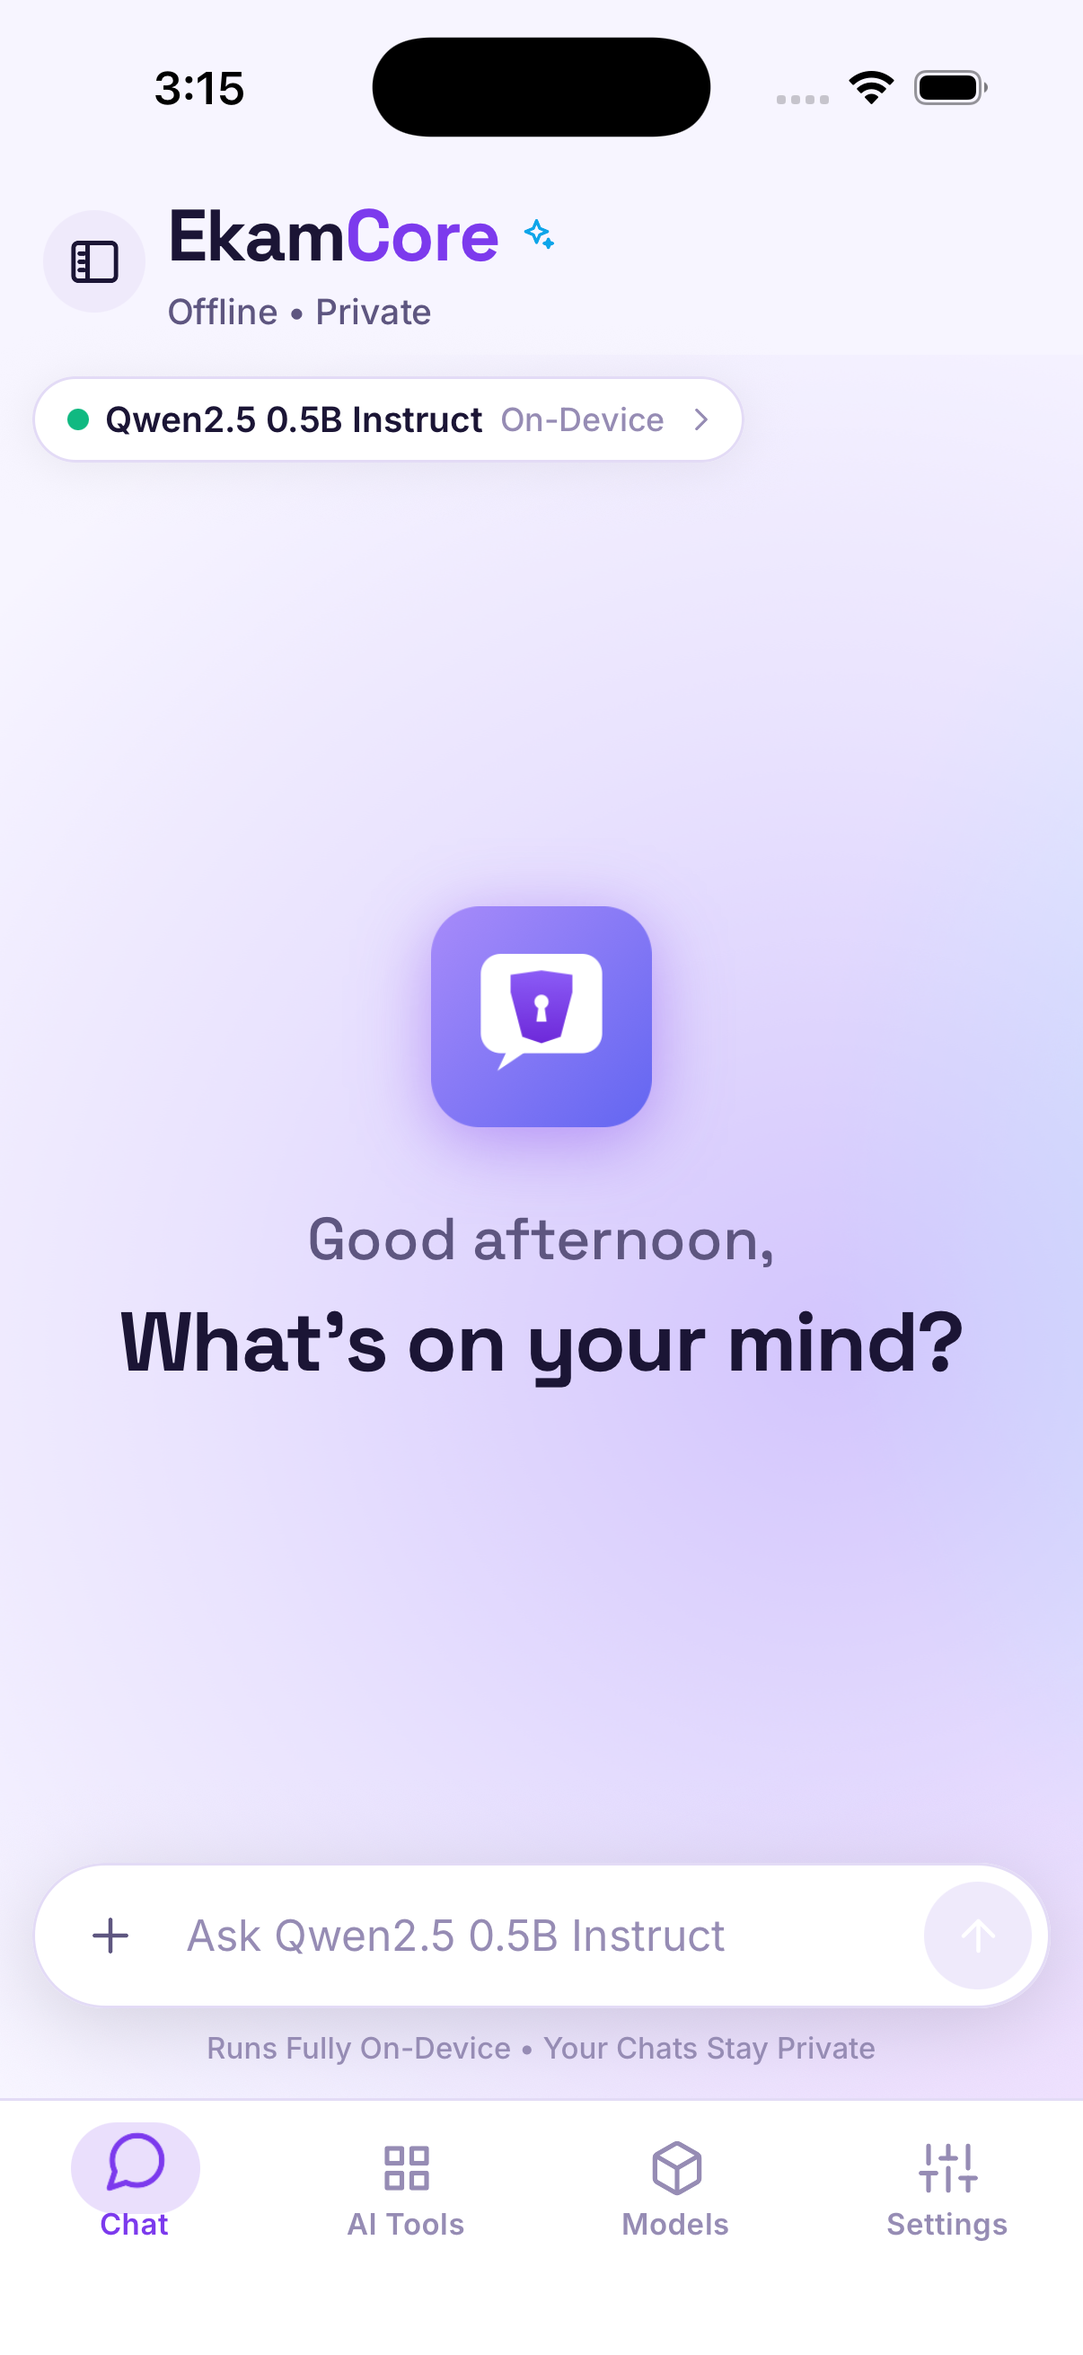
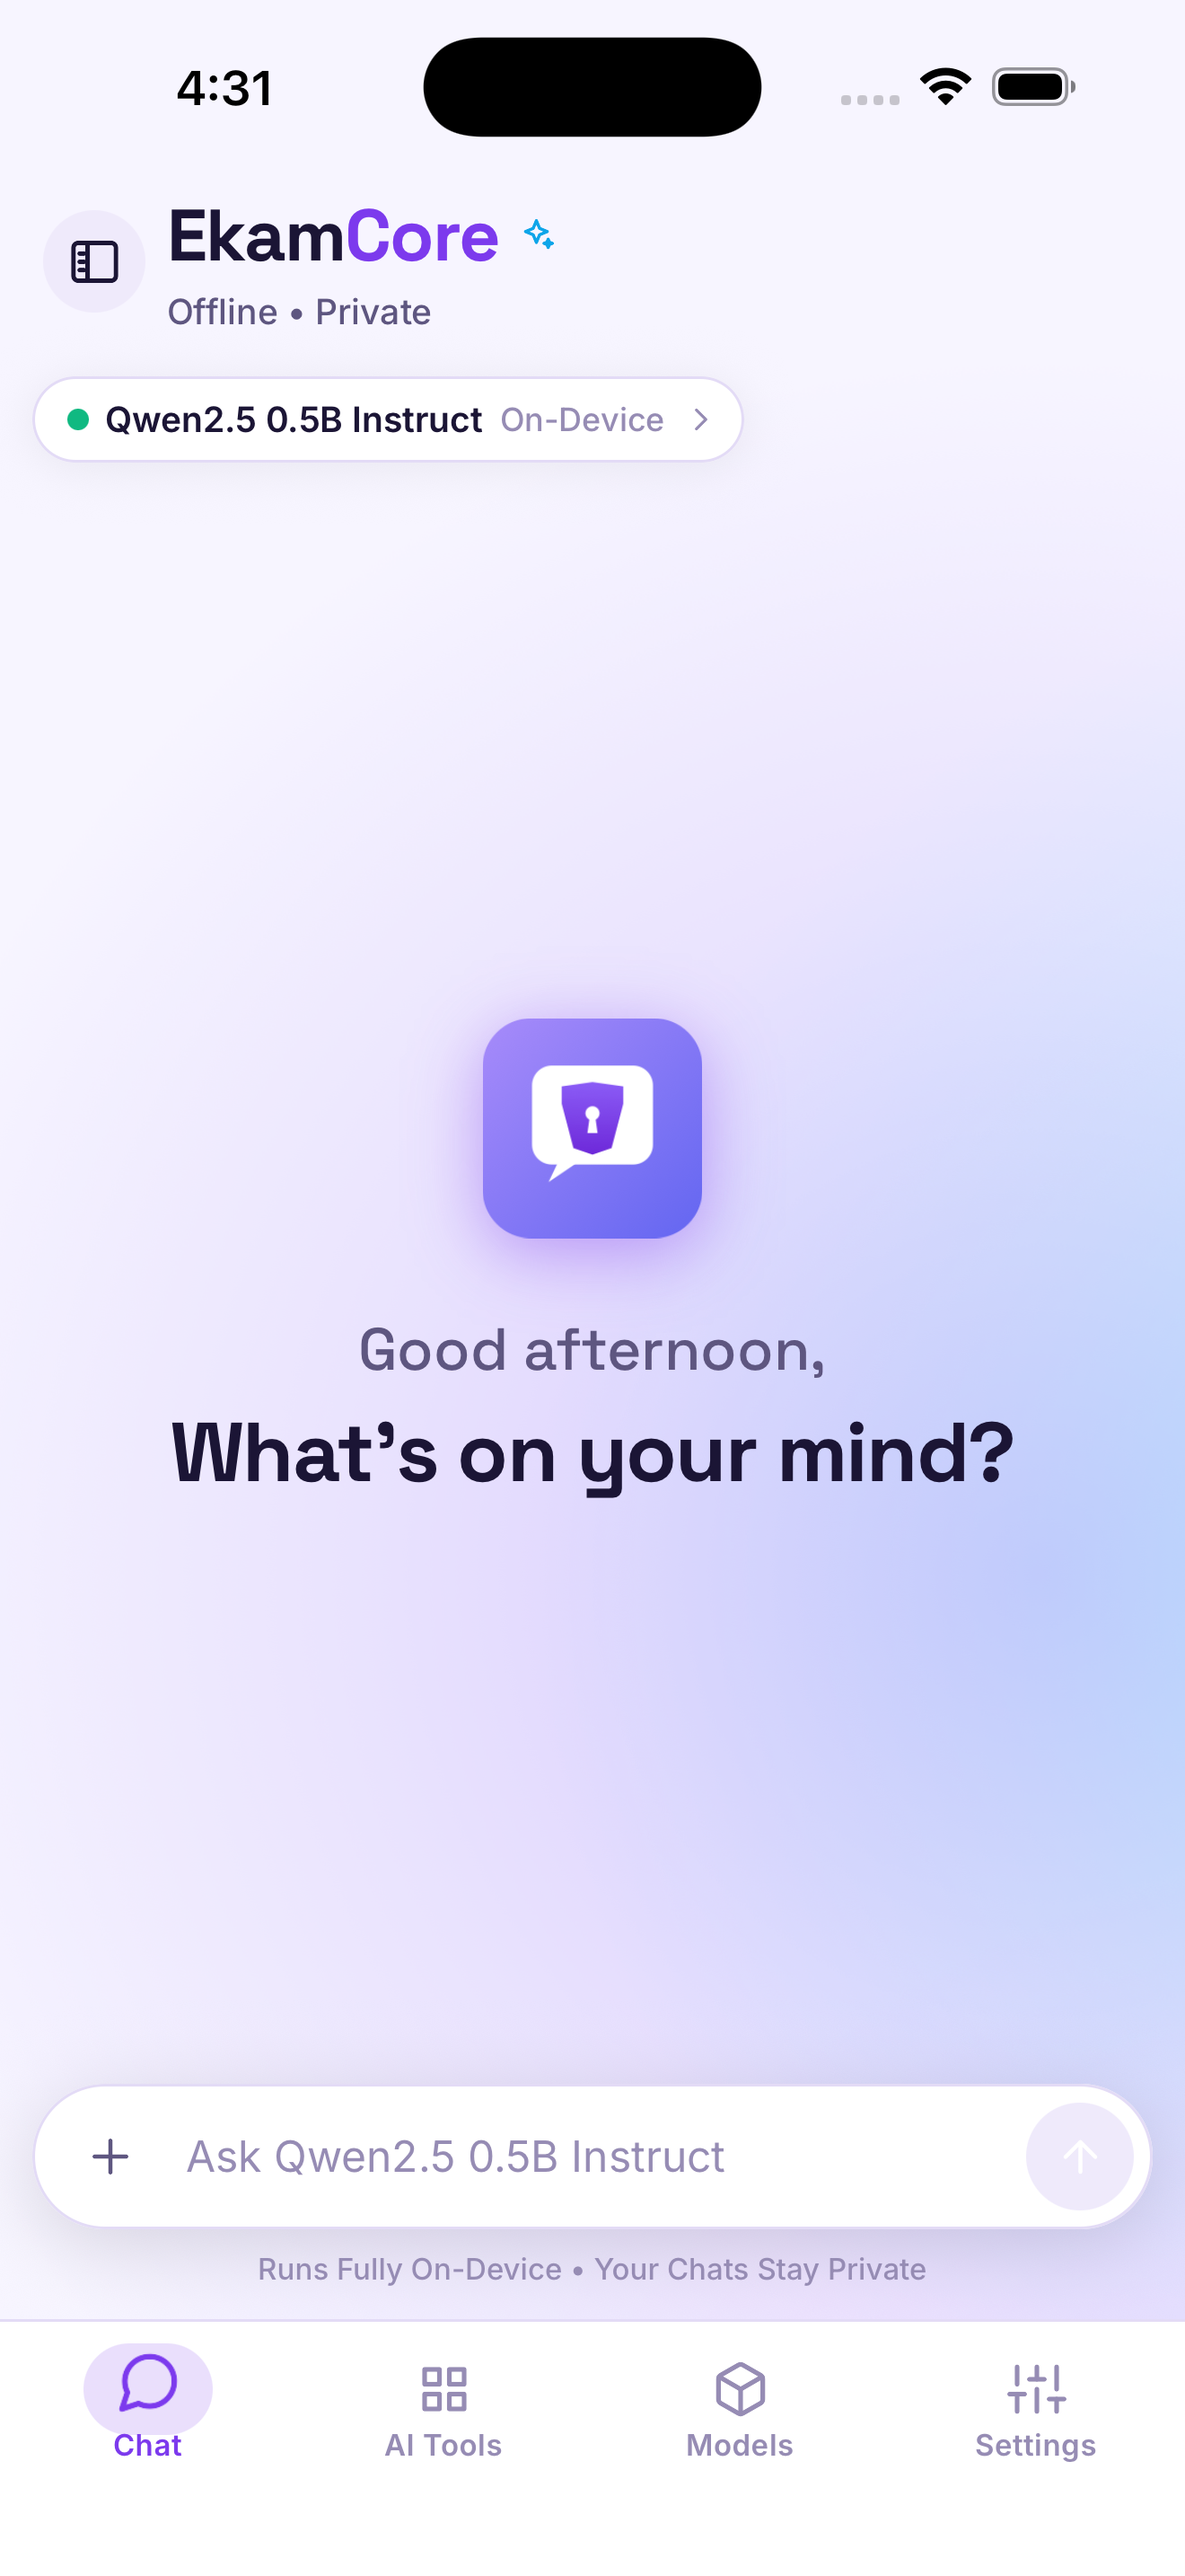
docs(store): fuller screenshot sets — iOS 6.9" (4) + Android (6)
iOS: 4 shots at the required 1320x2868 (6.9", iPhone 17 Pro Max) — hero, models,
settings, AI Tools (replaces the earlier 6.3" captures). Android: 6 shots at
1080x2400 — adds settings, AI Tools, history to hero/models/chat. Copy doc updated
with the manifest + the two optional manual captures (iOS chat/history drawer,
vision-models tab) that automation couldn't hit.

diff --git a/docs/store-assets/store-listing-copy.md b/docs/store-assets/store-listing-copy.md
@@ -82,18 +82,29 @@ Download a model, go offline, and chat. Your conversations never leave your devi
 
 ## Screenshots
 
-Raw device captures live in `docs/store-assets/screenshots/` (`ios/` at 1206×2622, `android/` at
-1080×2400). They cover the three hero screens: **the private hero state** (carries the "Runs Fully
-On-Device · Your Chats Stay Private" line), **the model catalog** (device-tailored size/speed
-estimates), and **a live chat exchange**.
+Raw device captures live in `docs/store-assets/screenshots/`:
 
-**Before upload (finish these):**
-- iOS App Store requires **6.9"** screenshots (1320×2868) — recapture on an **iPhone 17 Pro Max**
-  simulator (UI is identical; the iOS chat exchange is already seeded, just open it from the drawer).
-- Google Play wants ≥2 phone screenshots (we have 3) — the current 1080×2400 set is accepted as-is.
-- Optional polish: add short caption overlays ("Runs 100% on your phone", "No cloud. No account.",
-  "Pick a model that fits your phone") and a device frame. These raw shots are submission-ready
-  without it, but captions lift conversion.
+**iOS — `ios/` (1320×2868, the App Store 6.9" requirement):** 4 shots
+1. `01-hero` — private hero state ("Runs Fully On-Device · Your Chats Stay Private")
+2. `02-models` — model catalog with device-tailored size/speed estimates
+3. `03-settings` — privacy/personalization ("Adapt to me… stored only on this device") + "connect your own computer"
+4. `04-ai-tools` — on-device assistants (Email, Rewriter, Meeting Notes, Planner…)
+
+**Android — `android/` (1080×2400, Play-ready as-is):** 6 shots
+1. `01-hero` · 2. `02-models` · 3. `03-chat` (live Q&A exchange) · 4. `04-settings` ·
+5. `05-ai-tools` · 6. `06-history` (conversation management)
+
+This is a strong set (Play needs ≥2/max 8 → we have 6; Apple needs ≥1/max 10 → we have 4).
+
+**Optional finishes to push it to 6/platform:**
+- iOS **chat exchange** + **history** shots: the demo chat is already seeded on the Pro Max sim —
+  just tap the top-left drawer icon and the conversation to capture them at 6.9" (automation
+  couldn't reliably hit that small icon; a manual tap takes 5 seconds).
+- **Image/Vision models** tab shot (both platforms): tap the "Image Models" segment on the Models
+  screen (the segment toggle resisted automated taps; trivial by hand).
+- Optional polish: caption overlays ("Runs 100% on your phone", "No cloud. No account.", "Pick a
+  model that fits your phone") + device frames. The raw shots are submission-ready without it, but
+  captions lift conversion.
 
 ## Other assets still to produce (see store-submission-checklist.md)
 - **App icon** export: 1024×1024 (App Store), 512×512 (Play). Use the existing in-app shield icon.
